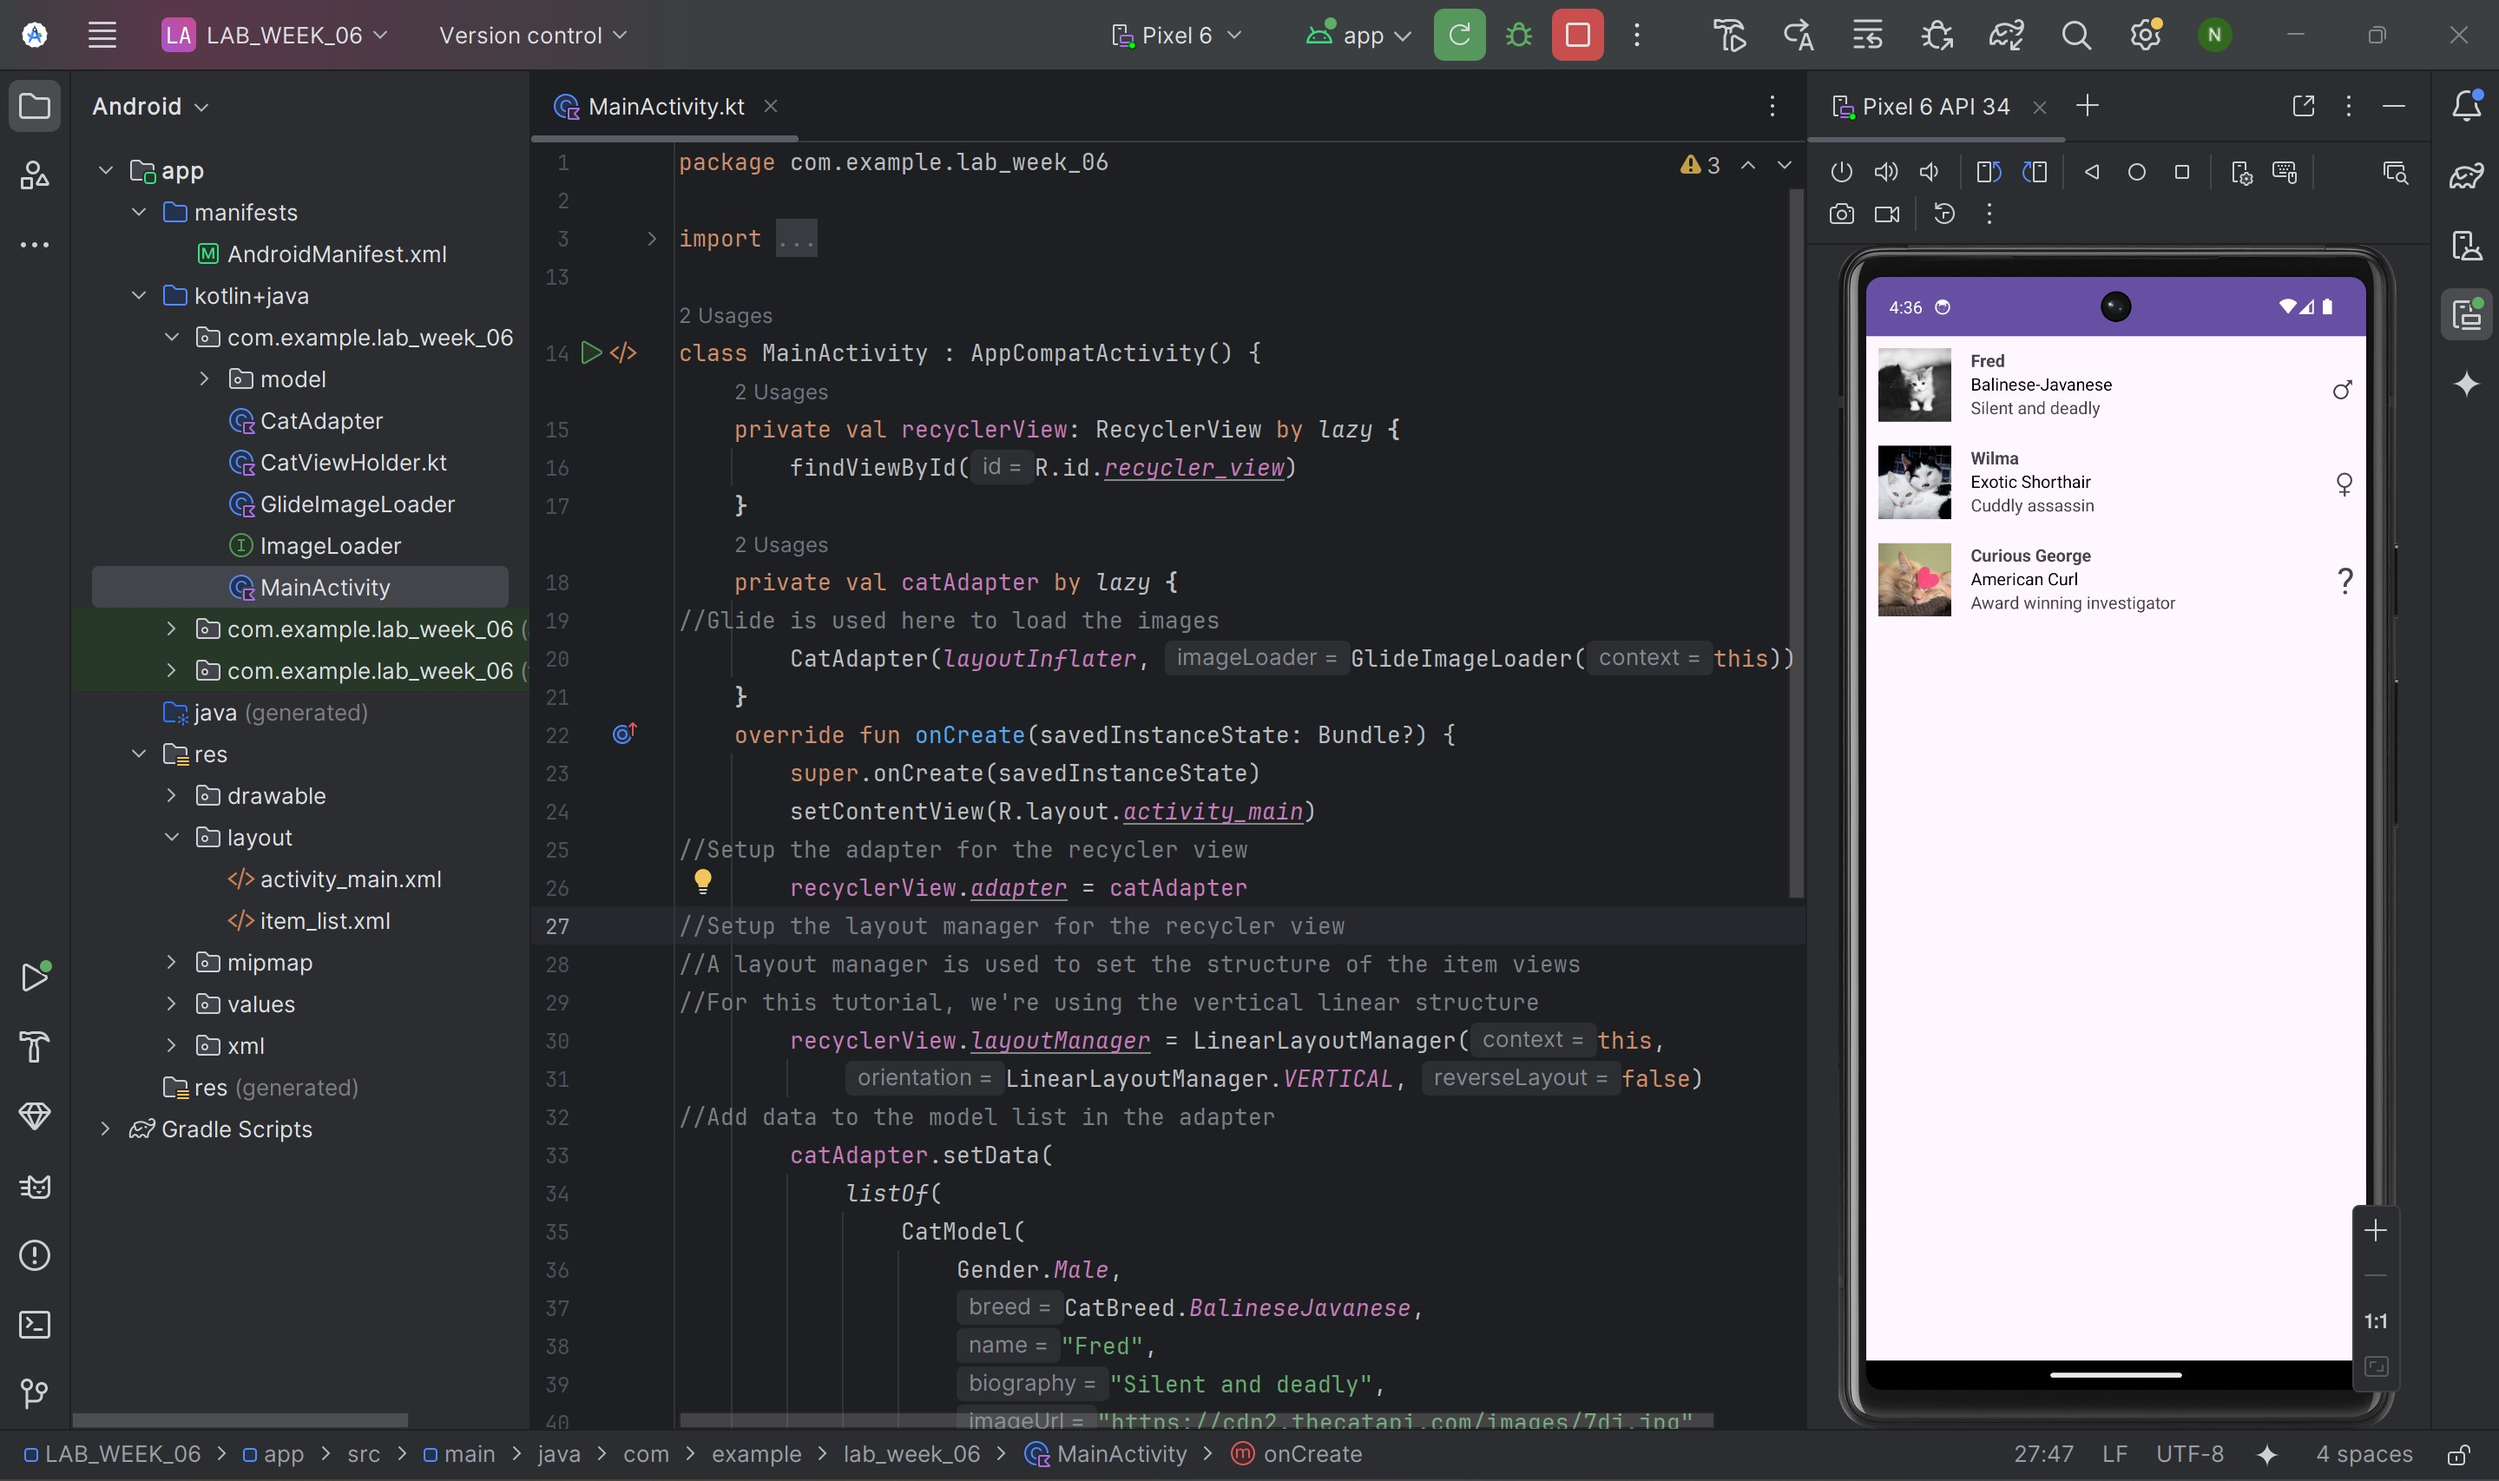
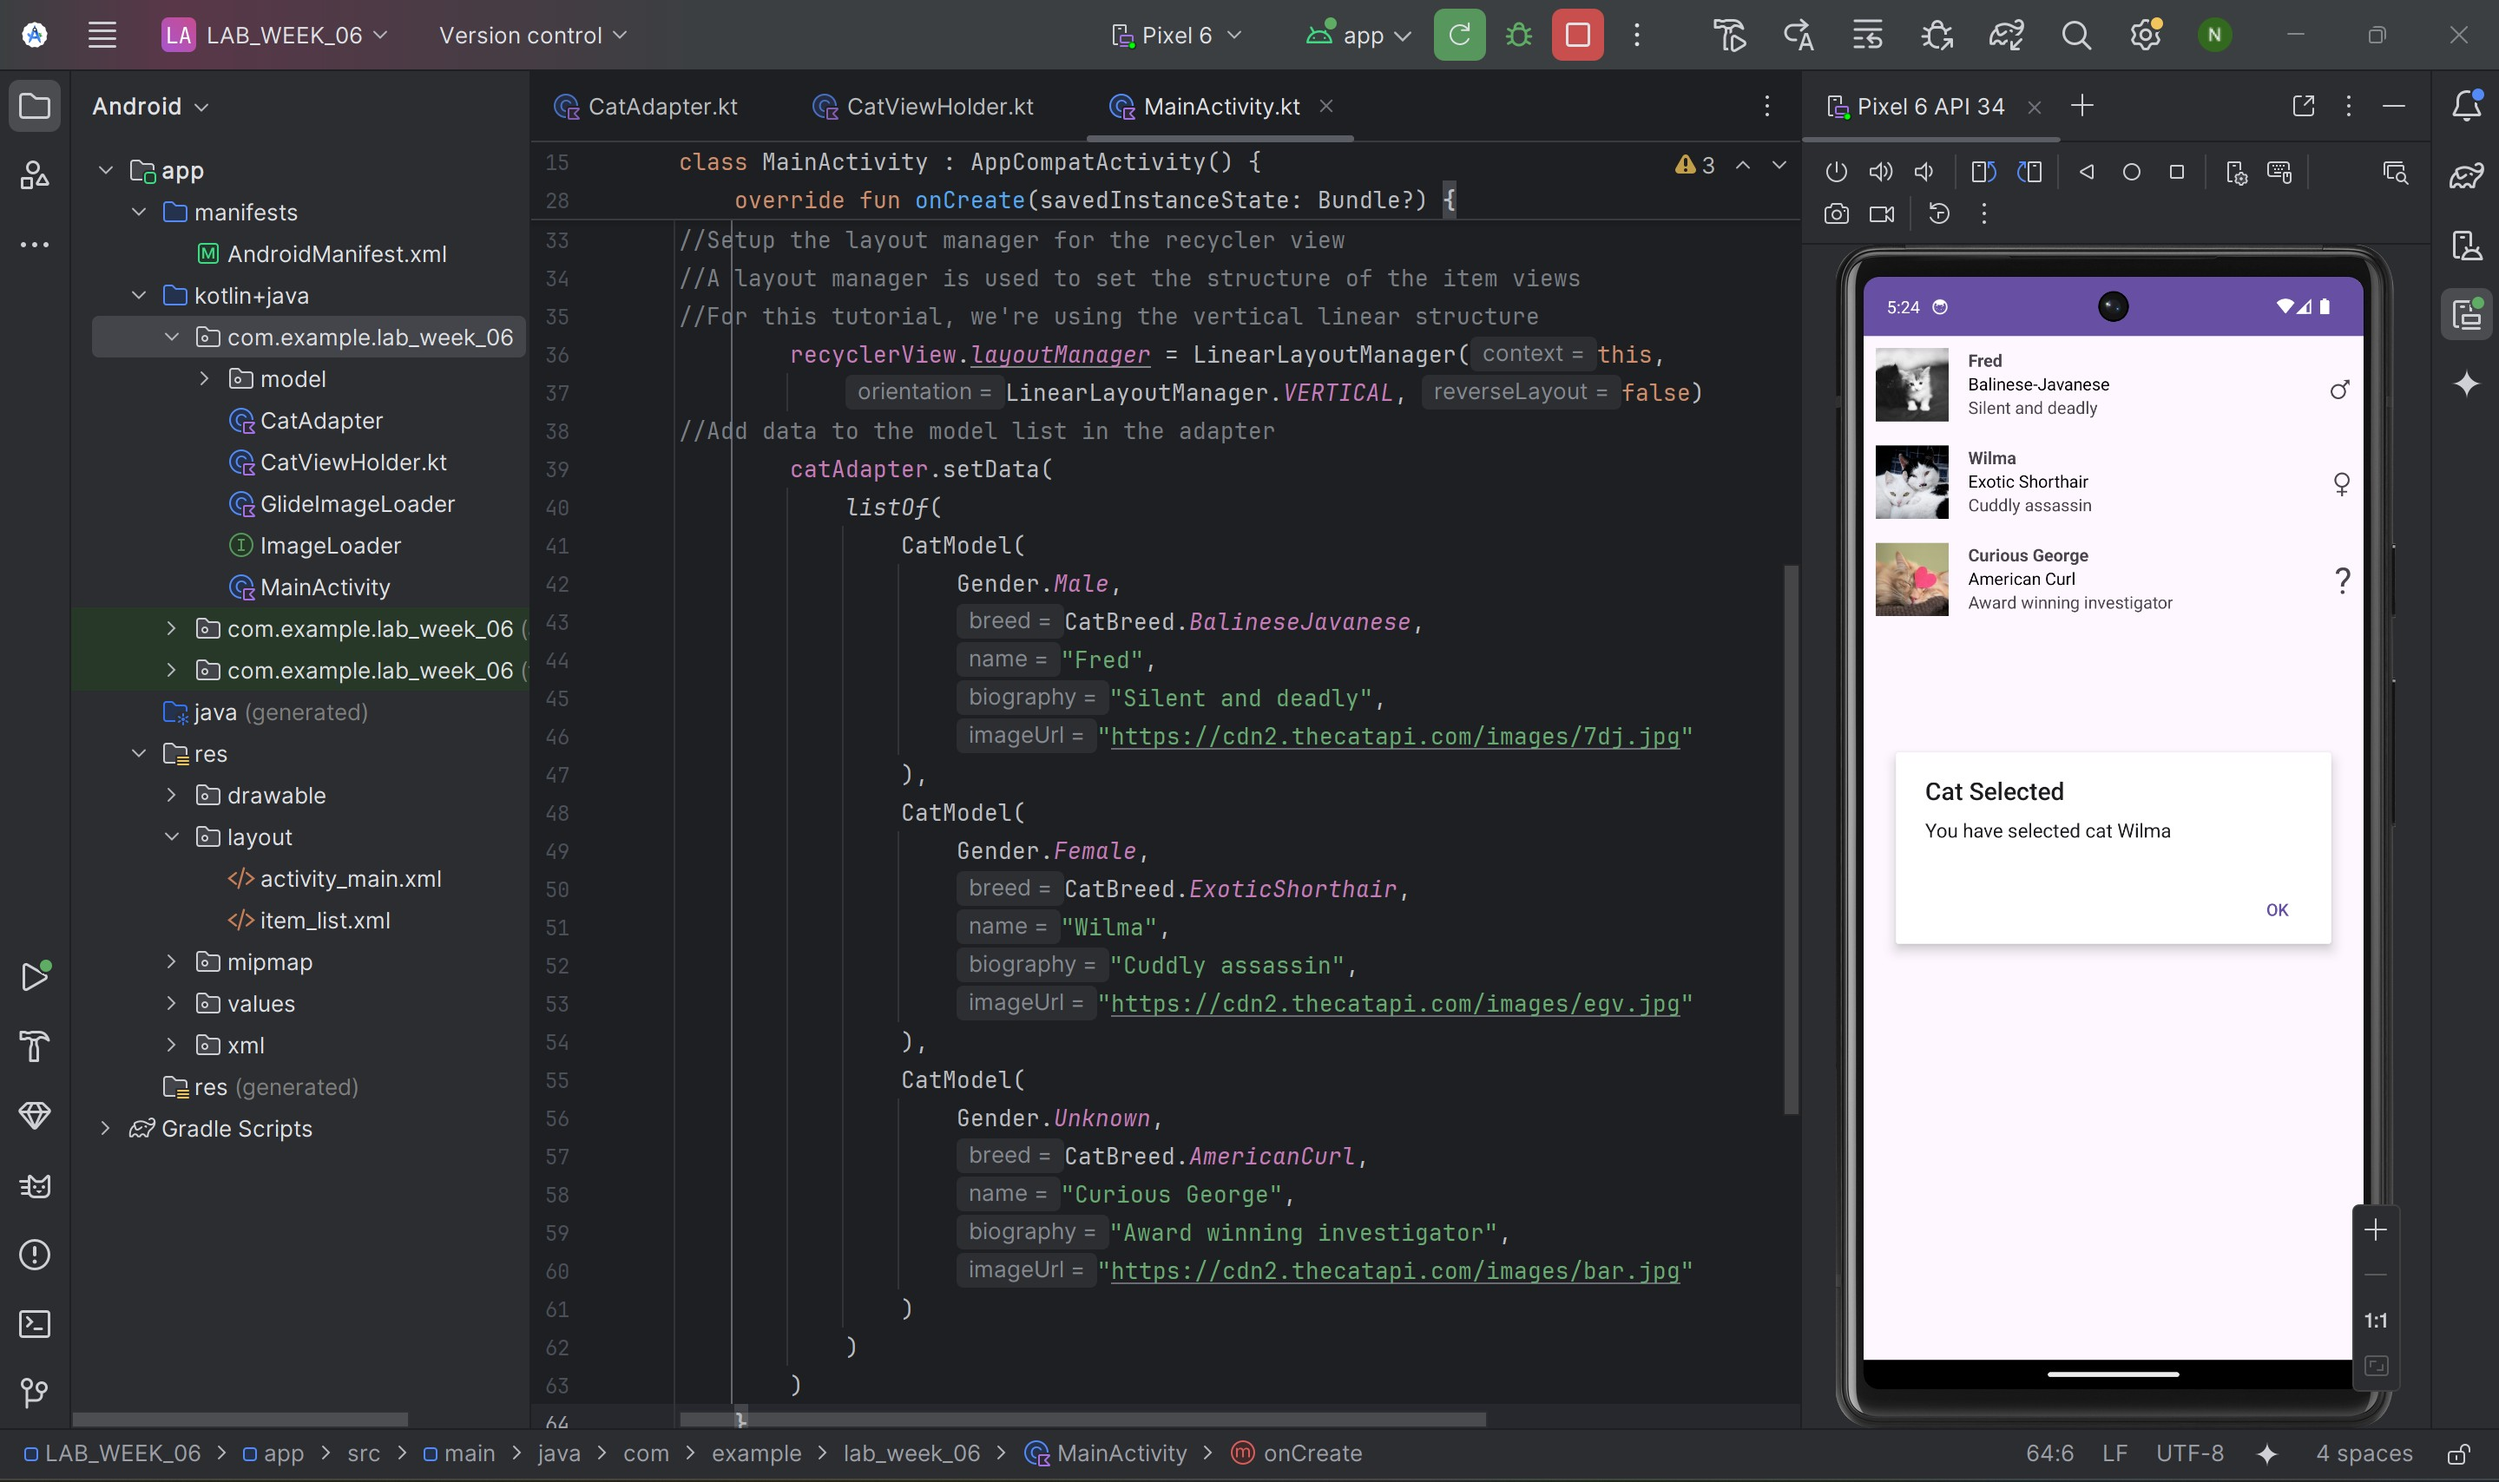
Commit No.2 - Clickable RecyclerView

diff --git a/app/src/main/java/com/example/lab_week_06/MainActivity.kt b/app/src/main/java/com/example/lab_week_06/MainActivity.kt
@@ -2,6 +2,7 @@ package com.example.lab_week_06
 
 import android.os.Bundle
 import androidx.activity.enableEdgeToEdge
+import androidx.appcompat.app.AlertDialog
 import androidx.appcompat.app.AppCompatActivity
 import androidx.core.view.ViewCompat
 import androidx.core.view.WindowInsetsCompat
@@ -16,8 +17,13 @@ class MainActivity : AppCompatActivity() {
         findViewById(R.id.recycler_view)
     }
     private val catAdapter by lazy {
-//Glide is used here to load the images
-        CatAdapter(layoutInflater, GlideImageLoader(this))
+        //Glide is used here to load the images
+        //Here we are passing the onClickListener function to the Adapter
+        CatAdapter(layoutInflater, GlideImageLoader(this), object:
+            CatAdapter.OnClickListener {
+            //When this is triggered, the pop up dialog will be shown
+            override fun onItemClick(cat: CatModel) = showSelectionDialog(cat)
+        })
     }
     override fun onCreate(savedInstanceState: Bundle?) {
         super.onCreate(savedInstanceState)
@@ -55,5 +61,16 @@ class MainActivity : AppCompatActivity() {
                 )
             )
         )
+    }
+
+    //This will create a pop up dialog when one of the items from the recycler view is clicked.
+    private fun showSelectionDialog(cat: CatModel) {
+        AlertDialog.Builder(this)
+            //Set the title for the dialog
+            .setTitle("Cat Selected")
+            //Set the message for the dialog
+            .setMessage("You have selected cat ${cat.name}")
+            //Set if the OK button should be enabled
+            .setPositiveButton("OK") { _, _ -> }.show()
     }
 }

diff --git a/app/src/main/java/com/example/lab_week_06/CatViewHolder.kt b/app/src/main/java/com/example/lab_week_06/CatViewHolder.kt
@@ -11,8 +11,8 @@ import com.example.lab_week_06.model.Gender
 private val FEMALE_SYMBOL = "\u2640"
 private val MALE_SYMBOL = "\u2642"
 private const val UNKNOWN_SYMBOL = "?"
-class CatViewHolder(containerView: View, private val imageLoader:
-ImageLoader) : RecyclerView.ViewHolder(containerView) {
+class CatViewHolder(private val containerView: View, private val imageLoader:
+ImageLoader, private val onClickListener: CatAdapter.OnClickListener) : RecyclerView.ViewHolder(containerView) {
 //containerView is the container layout of each item list
 //Here findViewById is used to get the reference of each views inside the container
     private val catBiographyView: TextView by lazy {
@@ -27,6 +27,11 @@ ImageLoader) : RecyclerView.ViewHolder(containerView) {
         containerView.findViewById(R.id.cat_photo) }
     //This function is called in the adapter to provide the binding function
     fun bindData(cat: CatModel) {
+        //Override the onClickListener function
+        containerView.setOnClickListener {
+        //Here we are using the onClickListener passed from the Adapter
+            onClickListener.onItemClick(cat)
+        }
         imageLoader.loadImage(cat.imageUrl, catPhotoView)
         catNameView.text = cat.name
         catBreedView.text = when (cat.breed) {
@@ -41,5 +46,10 @@ ImageLoader) : RecyclerView.ViewHolder(containerView) {
             Gender.Male -> MALE_SYMBOL
             else -> UNKNOWN_SYMBOL
         }
+    }
+
+    //Declare an onClickListener interface
+    interface OnClickListener {
+        fun onClick(cat: CatModel)
     }
 }

diff --git a/app/src/main/java/com/example/lab_week_06/CatAdapter.kt b/app/src/main/java/com/example/lab_week_06/CatAdapter.kt
@@ -6,7 +6,7 @@ import androidx.recyclerview.widget.RecyclerView
 import com.example.lab_week_06.model.CatModel
 
 class CatAdapter(private val layoutInflater: LayoutInflater, private val
-imageLoader: ImageLoader) : RecyclerView.Adapter<CatViewHolder>() {
+imageLoader: ImageLoader, private val onClickListener: OnClickListener) : RecyclerView.Adapter<CatViewHolder>() {
     //Mutable list for storing all the list data
     private val cats = mutableListOf<CatModel>()
     //A function to set the mutable list
@@ -21,7 +21,7 @@ imageLoader: ImageLoader) : RecyclerView.Adapter<CatViewHolder>() {
     override fun onCreateViewHolder(parent: ViewGroup, viewType: Int):
             CatViewHolder {
         val view = layoutInflater.inflate(R.layout.item_list, parent, false)
-        return CatViewHolder(view, imageLoader)
+        return CatViewHolder(view, imageLoader, onClickListener)
     }
     //This is used to get the amount of data/item in the list
     override fun getItemCount() = cats.size
@@ -30,5 +30,10 @@ imageLoader: ImageLoader) : RecyclerView.Adapter<CatViewHolder>() {
 //The holder parameter stores our previously created ViewHolder
 //The holder.bindData function is declared in the CatViewHolder
         holder.bindData(cats[position])
+    }
+
+    //Declare an onClickListener interface
+    interface OnClickListener {
+        fun onItemClick(cat: CatModel)
     }
 }
